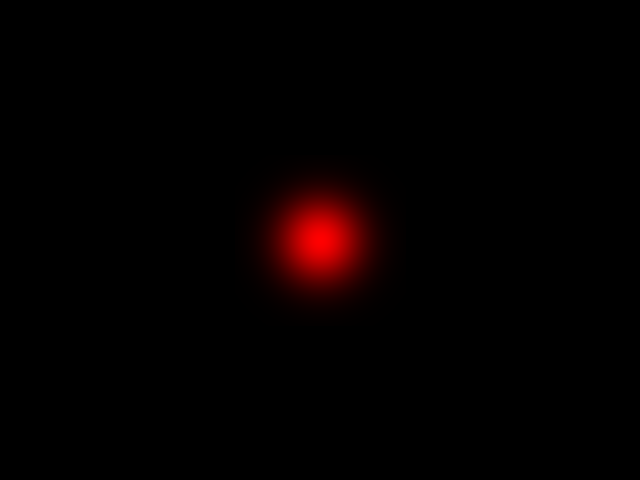
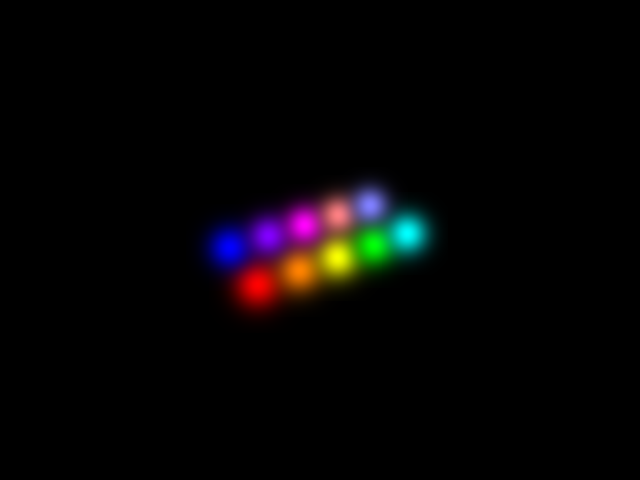
three gaussians training

Changed region(s): [[0.3125, 0.375, 0.6875, 0.6875]]

diff --git a/matlab/train_multiview.m b/matlab/train_multiview.m
@@ -1,5 +1,5 @@
-%% OPTIMIZACIÓN MULTIVISTA: 1 O 2 GAUSSIANAS
-% Script unificado para entrenar con 1 o 2 gaussianas
+%% OPTIMIZACIÓN MULTIVISTA: 1, 2, 3 O 10 GAUSSIANAS
+% Script unificado para entrenar con múltiples gaussianas
 % Simplemente comenta/descomenta la sección que desees usar
 
 clear; clc; close all;
@@ -8,15 +8,36 @@ clear; clc; close all;
 addpath('../cpp');
 
 % ===========================================================================
-% CONFIGURACIÓN:ELIGE NÚMERO DE GAUSSIANAS
+% CONFIGURACIÓN: ELIGE NÚMERO DE GAUSSIANAS
 % ===========================================================================
 
 % ---- OPCIÓN 1: UNA GAUSSIANA ----
-G = [0.1, 0.1, 1.1,  0.1,  1, 0, 0,  1.0];   % Gaussiana única (Roja)
+%G = [0.1, 0.1, 1.1,  0.1,  1, 0, 0,  1.0];   % Gaussiana única (Roja)
 
 % ---- OPCIÓN 2: DOS GAUSSIANAS ----
 % G = [ 0.2,  0.1, 1.1,  0.1,  1, 0, 0,  1.0;   % Gaussiana 1 (Roja)
 %      -0.2, -0.1, 1.1,  0.1,  0, 0, 1,  1.0];  % Gaussiana 2 (Azul)
+
+% ---- OPCIÓN 3: TRES GAUSSIANAS ----
+%G = [ 0.25,  0.1, 1.1,  0.08,  1, 0, 0,  1.0;   % Gaussiana 1 (Roja)
+%      0.0,   0.0, 1.1,  0.08,  0, 1, 0,  1.0;   % Gaussiana 2 (Verde)
+%     -0.25, -0.1, 1.1,  0.08,  0, 0, 1,  1.0];  % Gaussiana 3 (Azul)
+
+% ---- OPCIÓN 4: DIEZ GAUSSIANAS (2 filas de 5) ----
+ G = [
+     % Fila superior
+     -0.32,  0.15, 1.1,  0.06,   1.0, 0.0, 0.0,   1.0;  % Roja
+     -0.16,  0.15, 1.1,  0.06,   1.0, 0.5, 0.0,   1.0;  % Naranja
+      0.0,   0.15, 1.1,  0.06,   1.0, 1.0, 0.0,   1.0;  % Amarilla
+      0.16,  0.15, 1.1,  0.06,   0.0, 1.0, 0.0,   1.0;  % Verde
+      0.32,  0.15, 1.1,  0.06,   0.0, 1.0, 1.0,   1.0;  % Cian
+     % Fila inferior
+     -0.32, -0.15, 1.1,  0.06,   0.0, 0.0, 1.0,   1.0;  % Azul
+     -0.16, -0.15, 1.1,  0.06,   0.5, 0.0, 1.0,   1.0;  % Púrpura
+      0.0,  -0.15, 1.1,  0.06,   1.0, 0.0, 1.0,   1.0;  % Magenta
+      0.16, -0.15, 1.1,  0.06,   1.0, 0.5, 0.5,   1.0;  % Rosa
+      0.32, -0.15, 1.1,  0.06,   0.5, 0.5, 1.0,   1.0   % Lavanda
+ ];
 
 % ===========================================================================
 % 1. CONFIGURACIÓN DE ESCENA Y CÁMARAS

diff --git a/matlab/utils/generate_multiview_ten.m b/matlab/utils/generate_multiview_ten.m
@@ -1,0 +1,49 @@
+%% GENERADOR DE DATASET: 10 GAUSSIANAS (GT)
+clear; clc;
+setup_paths;
+
+W = 640; H = 480;
+num_cams = 12; % Más cámaras para capturar bien las 10 gaussianas
+
+% 1. Definimos el Ground Truth con DIEZ filas
+% Distribuidas en dos filas de 5 gaussianas cada una
+% Pos: [x y z] | Scale | RGB | Opacity
+
+G_gt = [
+    % Fila superior (Y = 0.12)
+    -0.30,  0.12, 1.0,  0.05,   1.0, 0.0, 0.0,   1.0;  % G1: Roja
+    -0.15,  0.12, 1.0,  0.05,   1.0, 0.5, 0.0,   1.0;  % G2: Naranja
+     0.0,   0.12, 1.0,  0.05,   1.0, 1.0, 0.0,   1.0;  % G3: Amarilla
+     0.15,  0.12, 1.0,  0.05,   0.0, 1.0, 0.0,   1.0;  % G4: Verde
+     0.30,  0.12, 1.0,  0.05,   0.0, 1.0, 1.0,   1.0;  % G5: Cian
+    
+    % Fila inferior (Y = -0.12)
+    -0.30, -0.12, 1.0,  0.05,   0.0, 0.0, 1.0,   1.0;  % G6: Azul
+    -0.15, -0.12, 1.0,  0.05,   0.5, 0.0, 1.0,   1.0;  % G7: Púrpura
+     0.0,  -0.12, 1.0,  0.05,   1.0, 0.0, 1.0,   1.0;  % G8: Magenta
+     0.15, -0.12, 1.0,  0.05,   1.0, 0.5, 0.5,   1.0;  % G9: Rosa
+     0.30, -0.12, 1.0,  0.05,   0.5, 0.5, 1.0,   1.0   % G10: Lavanda
+];
+
+% El objetivo de las cámaras es el centro de la escena
+target_pos = [0, 0, 1.0]'; 
+cams = create_camera_ring(num_cams, 1.5, W, H, target_pos);
+
+if ~exist('../data/targets', 'dir')
+    mkdir('../data/targets');
+end
+
+% 2. Renderizar y guardar
+fprintf('Generando dataset con 10 gaussianas...\n');
+for i = 1:num_cams
+    % El renderizador recibe la matriz completa y proyecta las 10 gaussianas
+    img = render_mex(G_gt, cams(i).K, cams(i).R, cams(i).t, W, H);
+    imwrite(img, sprintf('../data/targets/cam%02d.png', i));
+    fprintf('  - Cámara %d/%d renderizada\n', i, num_cams);
+end
+
+save('../data/cameras.mat', 'cams');
+fprintf('\n✓ Dataset con 10 Gaussianas generado en ../data/targets/\n');
+fprintf('  - %d imágenes target generadas\n', num_cams);
+fprintf('  - 10 gaussianas distribuidas en 2 filas\n');
+fprintf('  - Colores: Rojo, Naranja, Amarillo, Verde, Cian, Azul, Púrpura, Magenta, Rosa, Lavanda\n');

diff --git a/matlab/utils/generate_multiview_three.m b/matlab/utils/generate_multiview_three.m
@@ -1,0 +1,39 @@
+%% GENERADOR DE DATASET: 3 GAUSSIANAS (GT)
+clear; clc;
+setup_paths;
+
+W = 640; H = 480;
+num_cams = 8; % 8 cámaras para cubrir bien la escena
+
+% 1. Definimos el Ground Truth con TRES filas
+% Pos: [x y z] | Scale | RGB | Opacity
+G_gt = [
+     0.20,  0.0, 1.0,  0.06,   1, 0, 0,   1.0;  % Gaussiana 1: Roja (derecha)
+     0.0,   0.0, 1.0,  0.06,   0, 1, 0,   1.0;  % Gaussiana 2: Verde (centro)
+    -0.20,  0.0, 1.0,  0.06,   0, 0, 1,   1.0   % Gaussiana 3: Azul (izquierda)
+];
+
+% El objetivo de las cámaras es el centro de la escena
+target_pos = [0, 0, 1.0]'; 
+cams = create_camera_ring(num_cams, 1.2, W, H, target_pos);
+
+if ~exist('../data/targets', 'dir')
+    mkdir('../data/targets');
+end
+
+% 2. Renderizar y guardar
+fprintf('Generando dataset con 3 gaussianas...\n');
+for i = 1:num_cams
+    % El renderizador recibe la matriz completa y proyecta las 3 gaussianas
+    img = render_mex(G_gt, cams(i).K, cams(i).R, cams(i).t, W, H);
+    imwrite(img, sprintf('../data/targets/cam%02d.png', i));
+    fprintf('  - Cámara %d/%d renderizada\n', i, num_cams);
+end
+
+save('../data/cameras.mat', 'cams');
+fprintf('\n✓ Dataset con 3 Gaussianas generado en ../data/targets/\n');
+fprintf('  - %d imágenes target generadas\n', num_cams);
+fprintf('  - Ground Truth:\n');
+fprintf('    G1 (Roja):  [%.2f, %.2f, %.2f], scale=%.3f\n', G_gt(1,1:4));
+fprintf('    G2 (Verde): [%.2f, %.2f, %.2f], scale=%.3f\n', G_gt(2,1:4));
+fprintf('    G3 (Azul):  [%.2f, %.2f, %.2f], scale=%.3f\n', G_gt(3,1:4));
